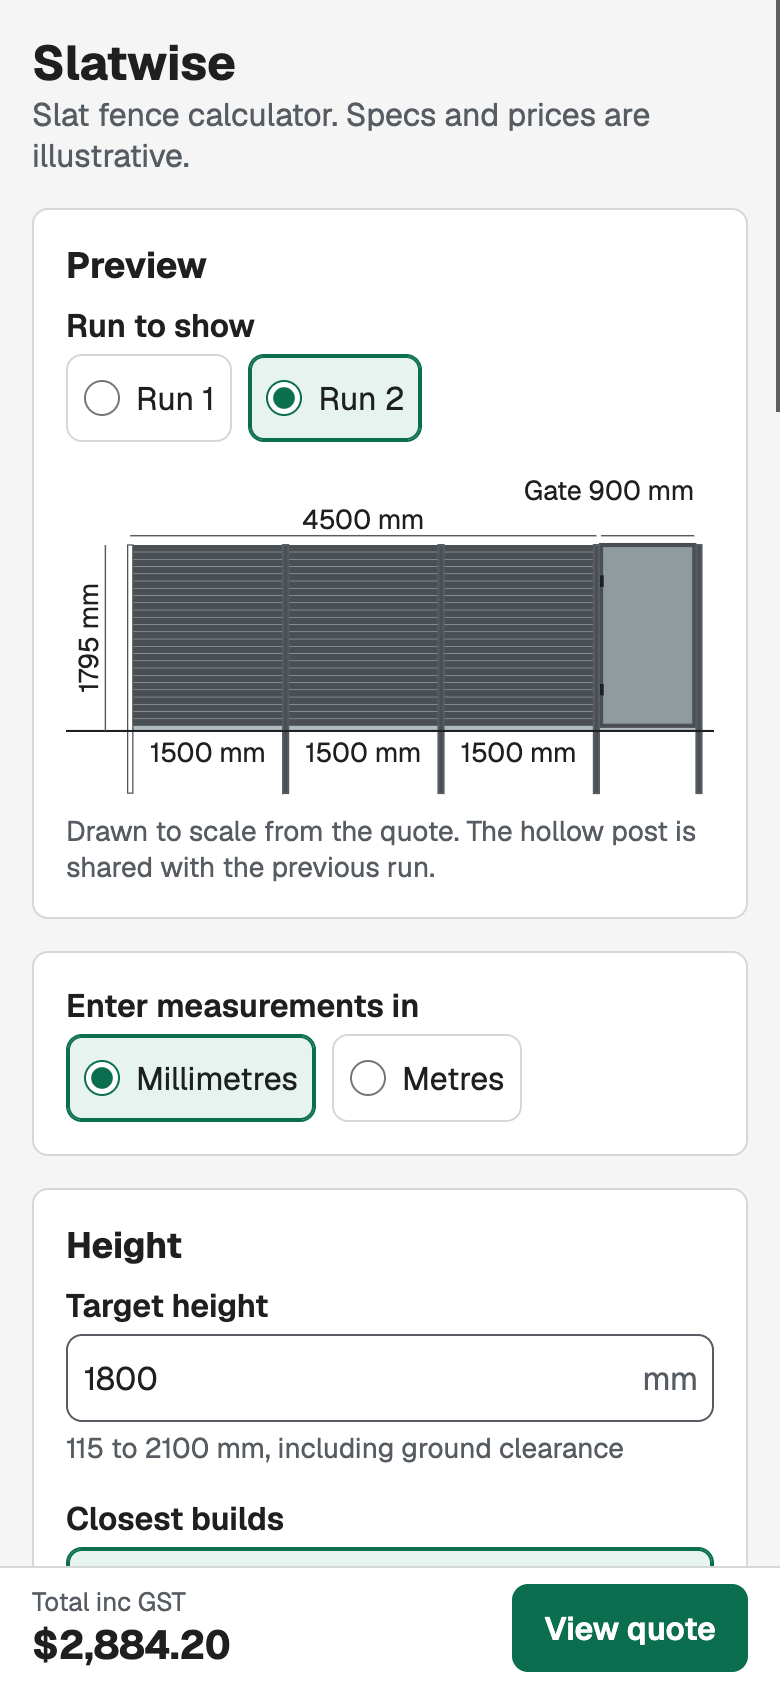
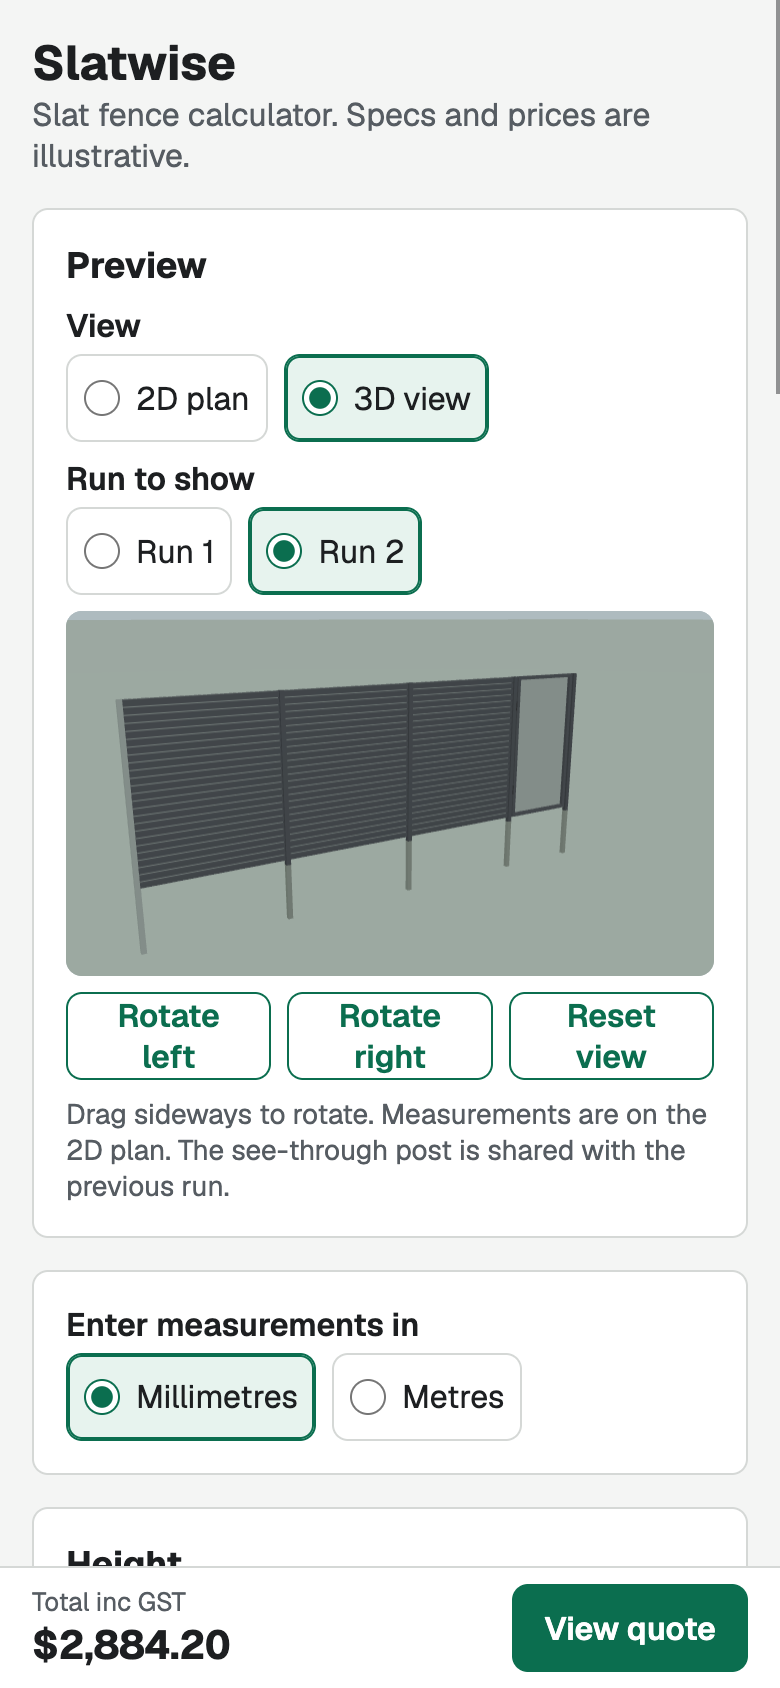
docs: refresh screenshots and figures for the 3D view

diff --git a/README.md b/README.md
@@ -9,8 +9,8 @@ A mobile-first calculator for aluminium slat fencing. Enter a target height and 
 Specs and prices are illustrative. This is a portfolio project, not affiliated with any supplier.
 
 <p>
-  <img src=".github/screenshot-phone.png" alt="The calculator on a phone, drawing a 4500 mm run with a gate and shared corner post above the height inputs, with the total pinned to the bottom of the screen" width="260">
-  <img src=".github/screenshot-desktop.png" alt="The calculator on desktop, with the inputs on the left and the drawing and results on the right" width="520">
+  <img src=".github/screenshot-phone.png" alt="The calculator on a phone, showing a 3D view of a fence run with a gate above the inputs, with the total pinned to the bottom of the screen" width="260">
+  <img src=".github/screenshot-desktop.png" alt="The calculator on desktop, with the inputs on the left and the 3D view and results on the right" width="520">
 </p>
 
 ## Features
@@ -44,7 +44,7 @@ Other deliberate choices:
 - **Only the design is stored in state.** Everything else is derived, so a figure can't go stale.
 - **A shared link is untrusted input.** It's size-capped, schema-checked and run through the engine, and a bad one falls back to the starting design with a notice.
 - **The page is statically prerendered.** Only `/api/quote` runs on the server.
-- **SVG for the plan, WebGL for 3D.** SVG is prerendered, prints sharply and suits a dimensioned drawing. three.js adds 134 KB gzipped, so it's lazy-loaded and normal visits never pay for it. It renders only when something changes, with no animation loop.
+- **SVG for the plan, WebGL for 3D.** SVG is prerendered, prints sharply and suits a dimensioned drawing. three.js adds about 135 KB gzipped, so it's lazy-loaded and normal visits never pay for it. It renders only when something changes, with no animation loop.
 - **Slat gaps are a mipmapped texture in 3D.** Drawn as geometry, gaps thinner than a pixel alias into speckle. A texture averages them into a smooth tone while wide gaps still show as lines.
 
 ## How the numbers work
@@ -99,7 +99,7 @@ Bay width is floored to whole millimetres so every slat in a run matches. Any le
 - **282 unit and API tests** (Vitest), with the engine written test-first against hand-worked numbers.
 - **18 browser tests** (Playwright): the reference run, axe across six page states, a keyboard-only quote request, focus staying clear of the sticky bar, and the 3D view's lazy loading, controls and fallbacks.
 - **CI** runs formatting, lint, types and both test suites on every push.
-- **Lighthouse mobile on production, three runs:** Performance 99 to 100, Accessibility, Best Practices and SEO 100. Largest Contentful Paint 0.8 to 1.1 s, Cumulative Layout Shift 0.
+- **Lighthouse mobile on production, three runs:** Performance 99 to 100, Accessibility, Best Practices and SEO 100. Largest Contentful Paint 0.8 to 1.4 s, Cumulative Layout Shift 0.
 
 <img src=".github/lighthouse-mobile.png" alt="Lighthouse report for slat-calc.vercel.app scoring 100 for performance, accessibility, best practices and SEO" width="600">
 
